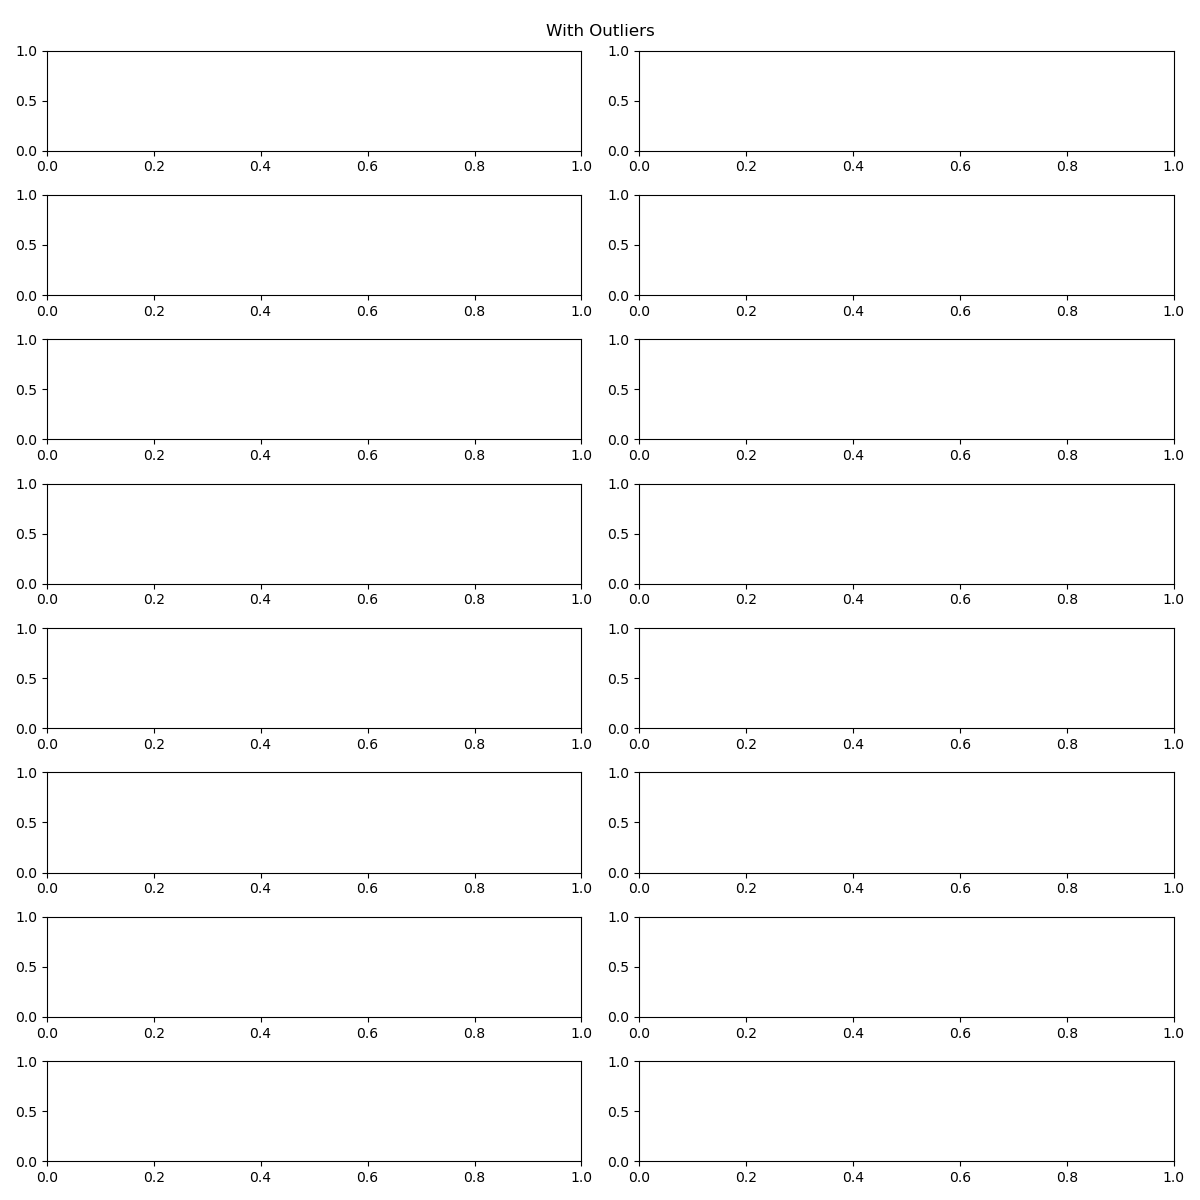
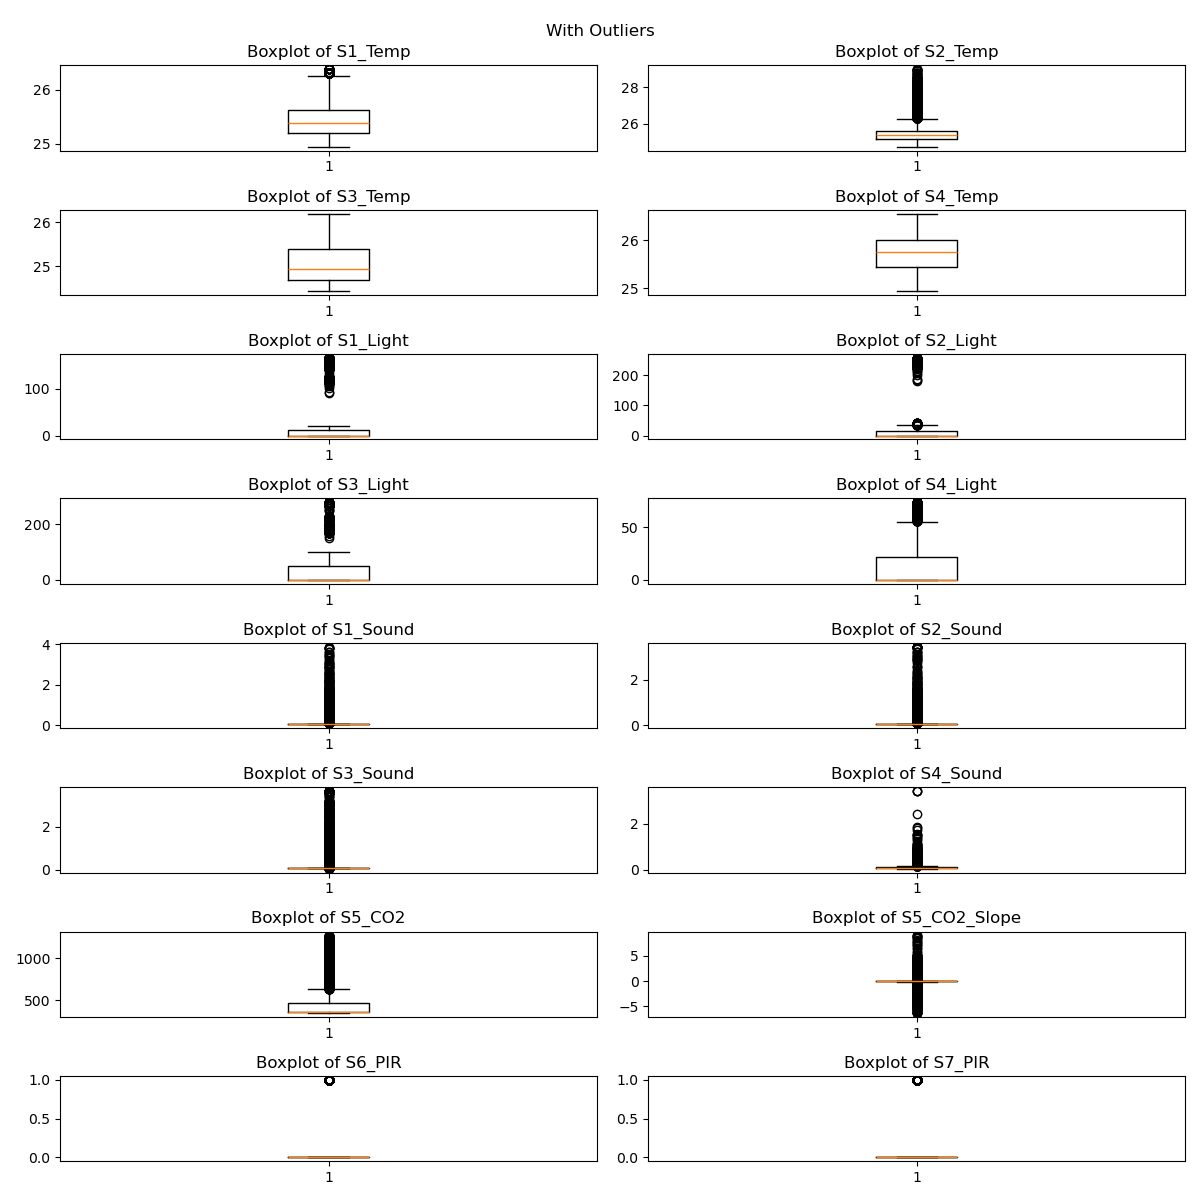
minor updates on readme file

diff --git a/src/visualize_data.py b/src/visualize_data.py
@@ -38,6 +38,12 @@ def with_outliers(df_cleaned, output_dir):
 
     fig, axs = plt.subplots(len(sensors) // 2, 2, figsize=(12, 12))
 
+    for i, sensor in enumerate(sensors):
+        row = i // 2
+        col = i % 2
+        axs[row, col].boxplot(df_cleaned[sensor].dropna())
+        axs[row, col].set_title(f"Boxplot of {sensor}")
+
     plt.suptitle("With Outliers")
     plt.tight_layout()
     save_plot(fig, 'with_outliers.png', output_dir)

diff --git a/README.md b/README.md
@@ -117,9 +117,7 @@ We aim to identify optimal environmental conditions that promote comfort and pro
 
 ![Pairplot](output/pairplot.png)
 
-#### Weekday vs. Weekend Effects
-
-We examine how sensor readings vary between weekdays and weekends and if there are significant differences in occupancy or environmental factors.
+#### Correlation matrix
 
 We also investigate if there are redundant sensors based on correlation analysis.
 
